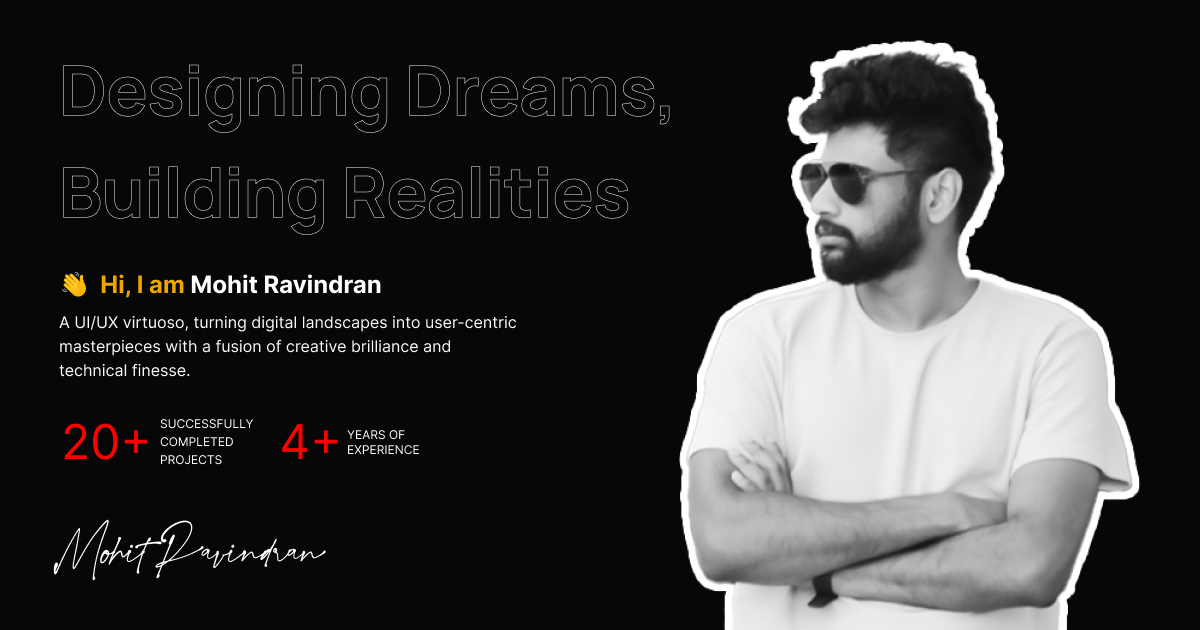
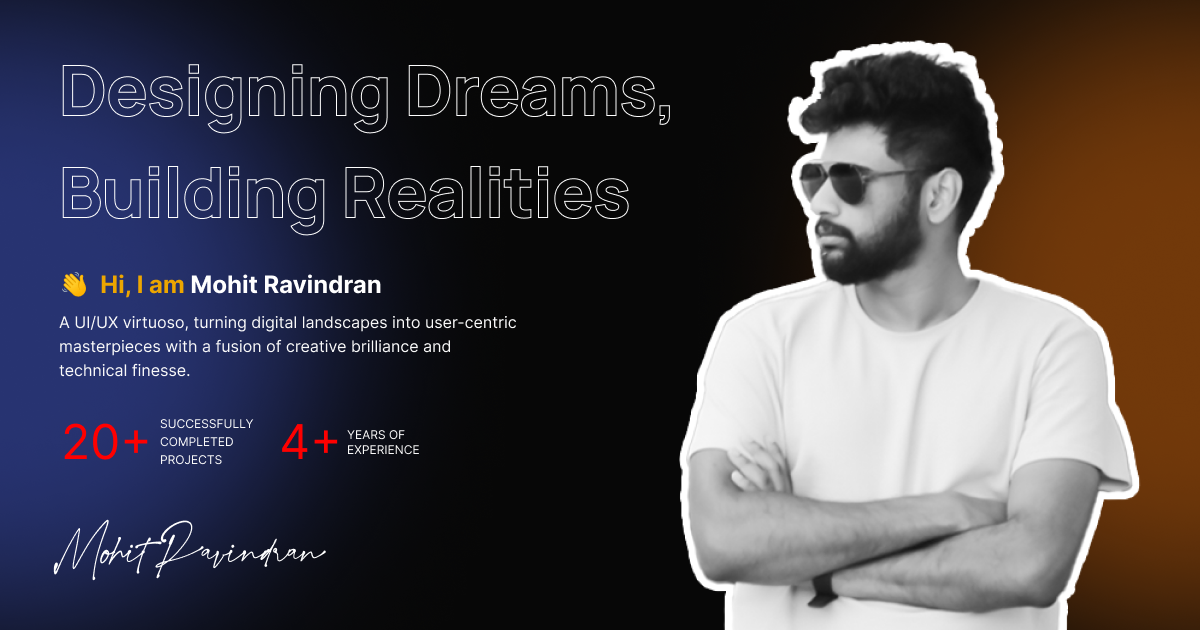
changes

diff --git a/scss/style.css b/scss/style.css
@@ -81,6 +81,7 @@
   transform: translate(-50%, -50%);
   top: 15rem;
   left: 50%;
+  z-index: 2;
 }
 @media (max-width: 480px) {
   .header__nav {
@@ -882,6 +883,11 @@
   gap: 4rem 1.6rem;
   margin: 4rem 0 0;
 }
+@media (max-width: 480px) {
+  .project__box {
+    grid-template-columns: repeat(1, 1fr);
+  }
+}
 .project__card h3 {
   color: #F9F9F9;
   font-size: 3.2rem;
@@ -1039,6 +1045,11 @@
 .process {
   padding: 4rem 0;
 }
+@media (max-width: 480px) {
+  .process {
+    padding: 8rem 0 4rem;
+  }
+}
 .process__title {
   display: flex;
   align-items: center;
@@ -1056,6 +1067,11 @@
   margin: 0 0 1.6rem;
   text-shadow: -1px 1px 0 #fff, 1px 1px 0 #fff, 1px -1px 0 #fff, -1px -1px 0 #fff;
   color: #000;
+}
+@media (max-width: 480px) {
+  .process__content h2 {
+    font-size: 3.2rem;
+  }
 }
 .process__content p {
   color: #514F5A;
@@ -1157,10 +1173,9 @@ img {
   display: flex;
   gap: 1rem;
 }
-@media (max-width: 480px) {
+@media (max-width: 767px) {
   .banner ul {
     flex-direction: column;
-    gap: 1rem;
   }
 }
 .banner ul li.initial-50 {
@@ -1169,7 +1184,7 @@ img {
 .banner ul li.active {
   width: 49%;
 }
-@media (max-width: 480px) {
+@media (max-width: 767px) {
   .banner ul li.active {
     width: 100%;
     height: 100%;
@@ -1186,7 +1201,7 @@ img {
   display: none;
 }
 .banner ul li {
-  border-radius: 2rem;
+  border-radius: 3rem;
   background-blend-mode: overlay;
   width: 17%;
   height: calc(100vh - 220px);
@@ -1257,7 +1272,7 @@ img {
   opacity: 0.75;
   transition: all 0.35s ease-in-out;
 }
-@media (max-width: 480px) {
+@media (max-width: 767px) {
   .banner ul li {
     width: 100%;
     height: 10rem;
@@ -1270,7 +1285,7 @@ img {
   content: "";
   height: 70%;
   width: 100%;
-  background: rgba(0, 0, 0, 0) linear-gradient(to bottom, rgba(0, 0, 0, 0) 0%, rgb(0, 0, 0) 100%) repeat scroll 0 0;
+  background: linear-gradient(to top, rgba(0, 0, 0, 0.8), rgba(0, 0, 0, 0));
   transition: all 0.35s ease-in-out;
 }
 .banner__hover-content {
@@ -1291,7 +1306,7 @@ img {
   align-items: center;
   gap: 1rem;
 }
-@media (max-width: 480px) {
+@media (max-width: 767px) {
   .banner__hover-content h5 {
     justify-content: center;
   }
@@ -1302,7 +1317,7 @@ img {
   height: 0.1rem;
   display: block;
 }
-@media (max-width: 480px) {
+@media (max-width: 767px) {
   .banner__hover-content h5 span {
     display: none;
   }
@@ -1312,9 +1327,14 @@ img {
   font-weight: 700;
   margin: 0 0 1rem;
 }
-@media (max-width: 480px) {
+@media (max-width: 767px) {
   .banner__hover-content h3 {
     text-align: center;
+  }
+}
+@media only screen and (min-width: 768px) and (max-width: 991px) {
+  .banner__hover-content h3 {
+    font-size: 2rem;
   }
 }
 .banner__hover-content p {
@@ -1322,21 +1342,27 @@ img {
   margin: 0 0 2rem;
   font-weight: 400;
 }
-@media (max-width: 480px) {
+@media (max-width: 767px) {
   .banner__hover-content p {
     text-align: center;
   }
 }
-@media (max-width: 480px) {
+@media only screen and (min-width: 768px) and (max-width: 991px) {
+  .banner__hover-content p {
+    font-size: 1.4rem;
+  }
+}
+@media (max-width: 767px) {
   .banner__hover-content a {
     width: 100%;
     text-align: center;
   }
 }
-@media (max-width: 480px) {
+@media (max-width: 767px) {
   .banner__hovered {
     display: flex;
-    flex-direction: column-reverse;
+    flex-direction: row-reverse;
+    align-items: center;
   }
 }
 .banner__hovered h4 {
@@ -1350,10 +1376,12 @@ img {
   z-index: 1;
   font-weight: 700;
 }
-@media (max-width: 480px) {
+@media (max-width: 767px) {
   .banner__hovered h4 {
     -ms-writing-mode: unset;
         writing-mode: unset;
+    margin: unset;
+    flex: 1;
   }
 }
 .banner__hovered h3 {
@@ -1367,4 +1395,10 @@ img {
   left: 50%;
   transform: translate(-50%, 28%);
   z-index: 1;
+}
+@media (max-width: 767px) {
+  .banner__hovered h3 {
+    position: unset;
+    transform: unset;
+  }
 }/*# sourceMappingURL=style.css.map */

diff --git a/scss/style.scss b/scss/style.scss
@@ -42,16 +42,15 @@ img{
   ul {
     display: flex;
     gap: 1rem;
-    @media #{$xss}{
+    @media #{$xs}{
       flex-direction: column;
-      gap: 1rem;
     }
     li.initial-50 {
       width: 60%;
     }
     li.active {
       width: 49%;
-      @media #{$xss}{
+      @media #{$xs}{
         width: 100%;
         height: 100%;
       }
@@ -132,7 +131,7 @@ img{
               }
             }
 
-      border-radius: 2rem;
+      border-radius: 3rem;
       background-blend-mode: overlay;
       width: 17%;
       height: calc(100vh - 220px);
@@ -144,7 +143,7 @@ img{
       overflow: hidden;
       cursor: pointer;
 
-      @media #{$xss}{
+      @media #{$xs}{
         width: 100%;
         height: 10rem;
       }
@@ -156,7 +155,7 @@ img{
               content: "";
               height: 70%;
               width: 100%;
-              background: rgba(0, 0, 0, 0) linear-gradient(to bottom, rgba(0, 0, 0, 0) 0%, rgba(0, 0, 0, 1) 100%) repeat scroll 0 0;
+              background: linear-gradient(to top, rgba(0, 0, 0, 0.8), rgba(0, 0, 0, 0));
               // z-index: -1;
               transition: all 0.35s ease-in-out;
               // visibility: hidden;
@@ -181,7 +180,7 @@ img{
           display: flex;
             align-items: center;
             gap: 1rem;
-      @media #{$xss}{
+      @media #{$xs}{
         justify-content: center;
       }
 
@@ -191,7 +190,7 @@ img{
         height: 0.1rem;
         display: block;
 
-        @media #{$xss}{
+        @media #{$xs}{
           display: none;
         }
 
@@ -201,20 +200,26 @@ img{
       font-size: 4rem;
       font-weight: 700;
       margin: 0 0 1rem;
-      @media #{$xss}{
+      @media #{$xs}{
         text-align: center;
       }
+                        @media #{$md} {
+                          font-size: 2rem;
+                        }
     }
     p {
       font-size: 1.6rem;
       margin: 0 0 2rem;
       font-weight: 400;
-      @media #{$xss}{
+      @media #{$xs}{
         text-align: center;
+      }
+      @media #{$md}{
+        font-size: 1.4rem;
       }
     }
     a{
-      @media #{$xss}{
+      @media #{$xs}{
         width: 100%;
         text-align: center;
       }
@@ -222,9 +227,10 @@ img{
   }
 
   &__hovered {
-    @media #{$xss}{
+    @media #{$xs}{
       display: flex;
-      flex-direction: column-reverse;
+      flex-direction: row-reverse;
+      align-items: center;
     }
     h4 {
       writing-mode: vertical-lr;
@@ -235,8 +241,10 @@ img{
       position: relative;
       z-index: 1;
       font-weight: 700;
-      @media #{$xss}{
+      @media #{$xs}{
         writing-mode: unset;
+        margin: unset;
+        flex: 1;
       }
     }
     h3 {
@@ -250,6 +258,11 @@ img{
       left: 50%;
       transform: translate(-50%, 28%);
       z-index: 1;
+
+      @media #{$xs}{
+        position: unset;
+        transform: unset;
+      }
     }
   }
 }

diff --git a/scss/_process.scss b/scss/_process.scss
@@ -1,5 +1,8 @@
 .process{
     padding: 4rem 0;
+    @media #{$xss}{
+        padding: 8rem 0 4rem;
+    }
     &__title{
         display: flex;
         align-items: center;
@@ -18,6 +21,10 @@
             margin: 0 0 1.6rem;
             text-shadow: -1px 1px 0 #fff, 1px 1px 0 #fff, 1px -1px 0 #fff, -1px -1px 0 #fff;
             color: #000;
+
+            @media #{$xss}{
+                font-size: 3.2rem;
+            }
         }
         p{
             color: #514F5A;

diff --git a/scss/_projects.scss b/scss/_projects.scss
@@ -19,6 +19,10 @@
         grid-template-columns: repeat(3,1fr);
         gap: 4rem 1.6rem;
         margin: 4rem 0 0;
+
+        @media #{$xss}{
+        grid-template-columns: repeat(1, 1fr);
+        }
     }
     &__card{
         h3{

diff --git a/scss/_header.scss b/scss/_header.scss
@@ -80,6 +80,7 @@
         transform: translate(-50%,-50%);
         top: 15rem;
         left: 50%;
+        z-index: 2;
         @media #{$xss}{
             top: 10rem;
             display: flex;
